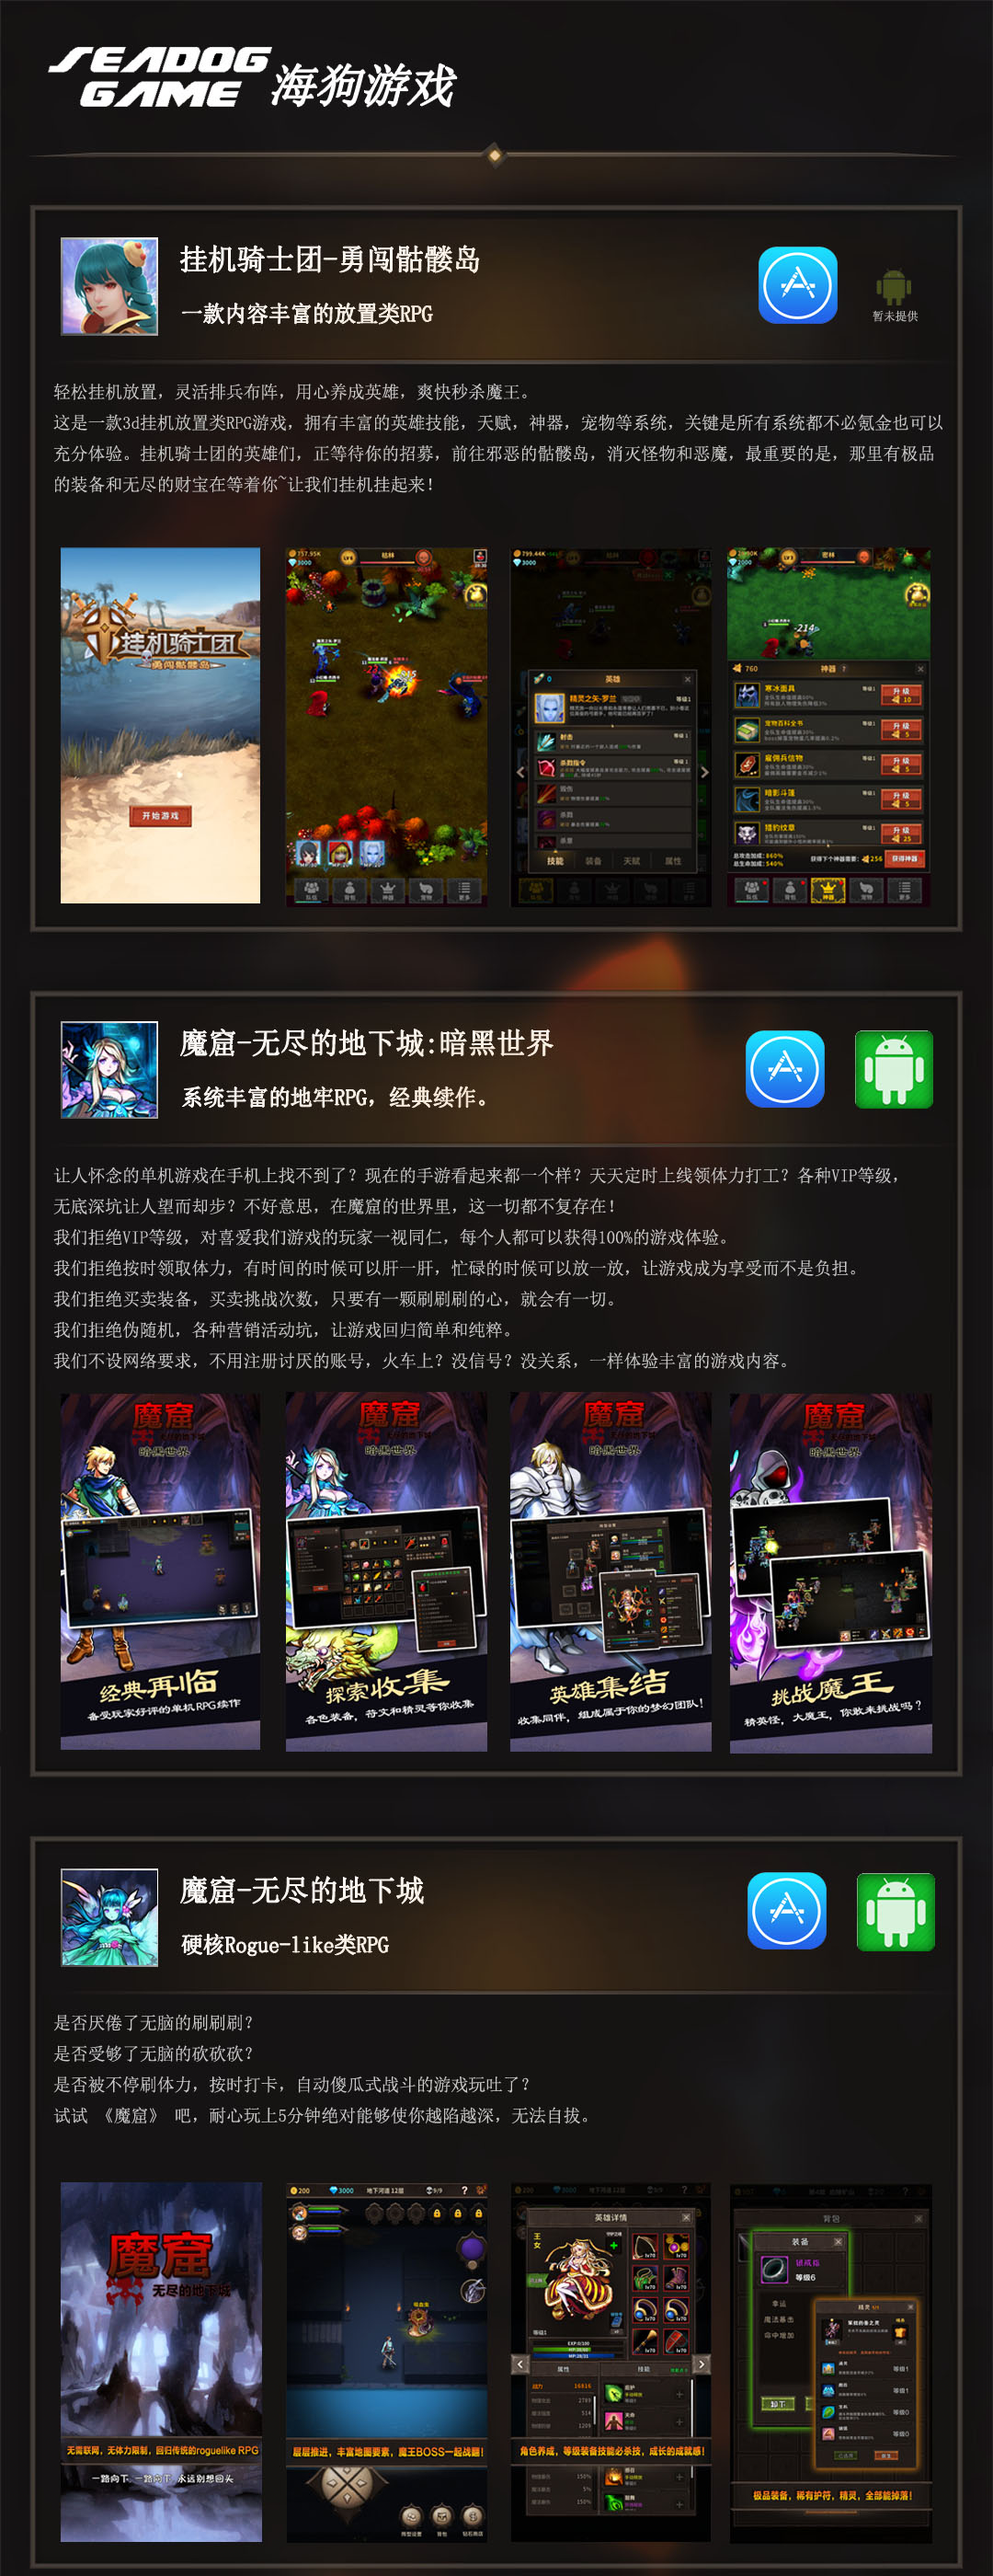
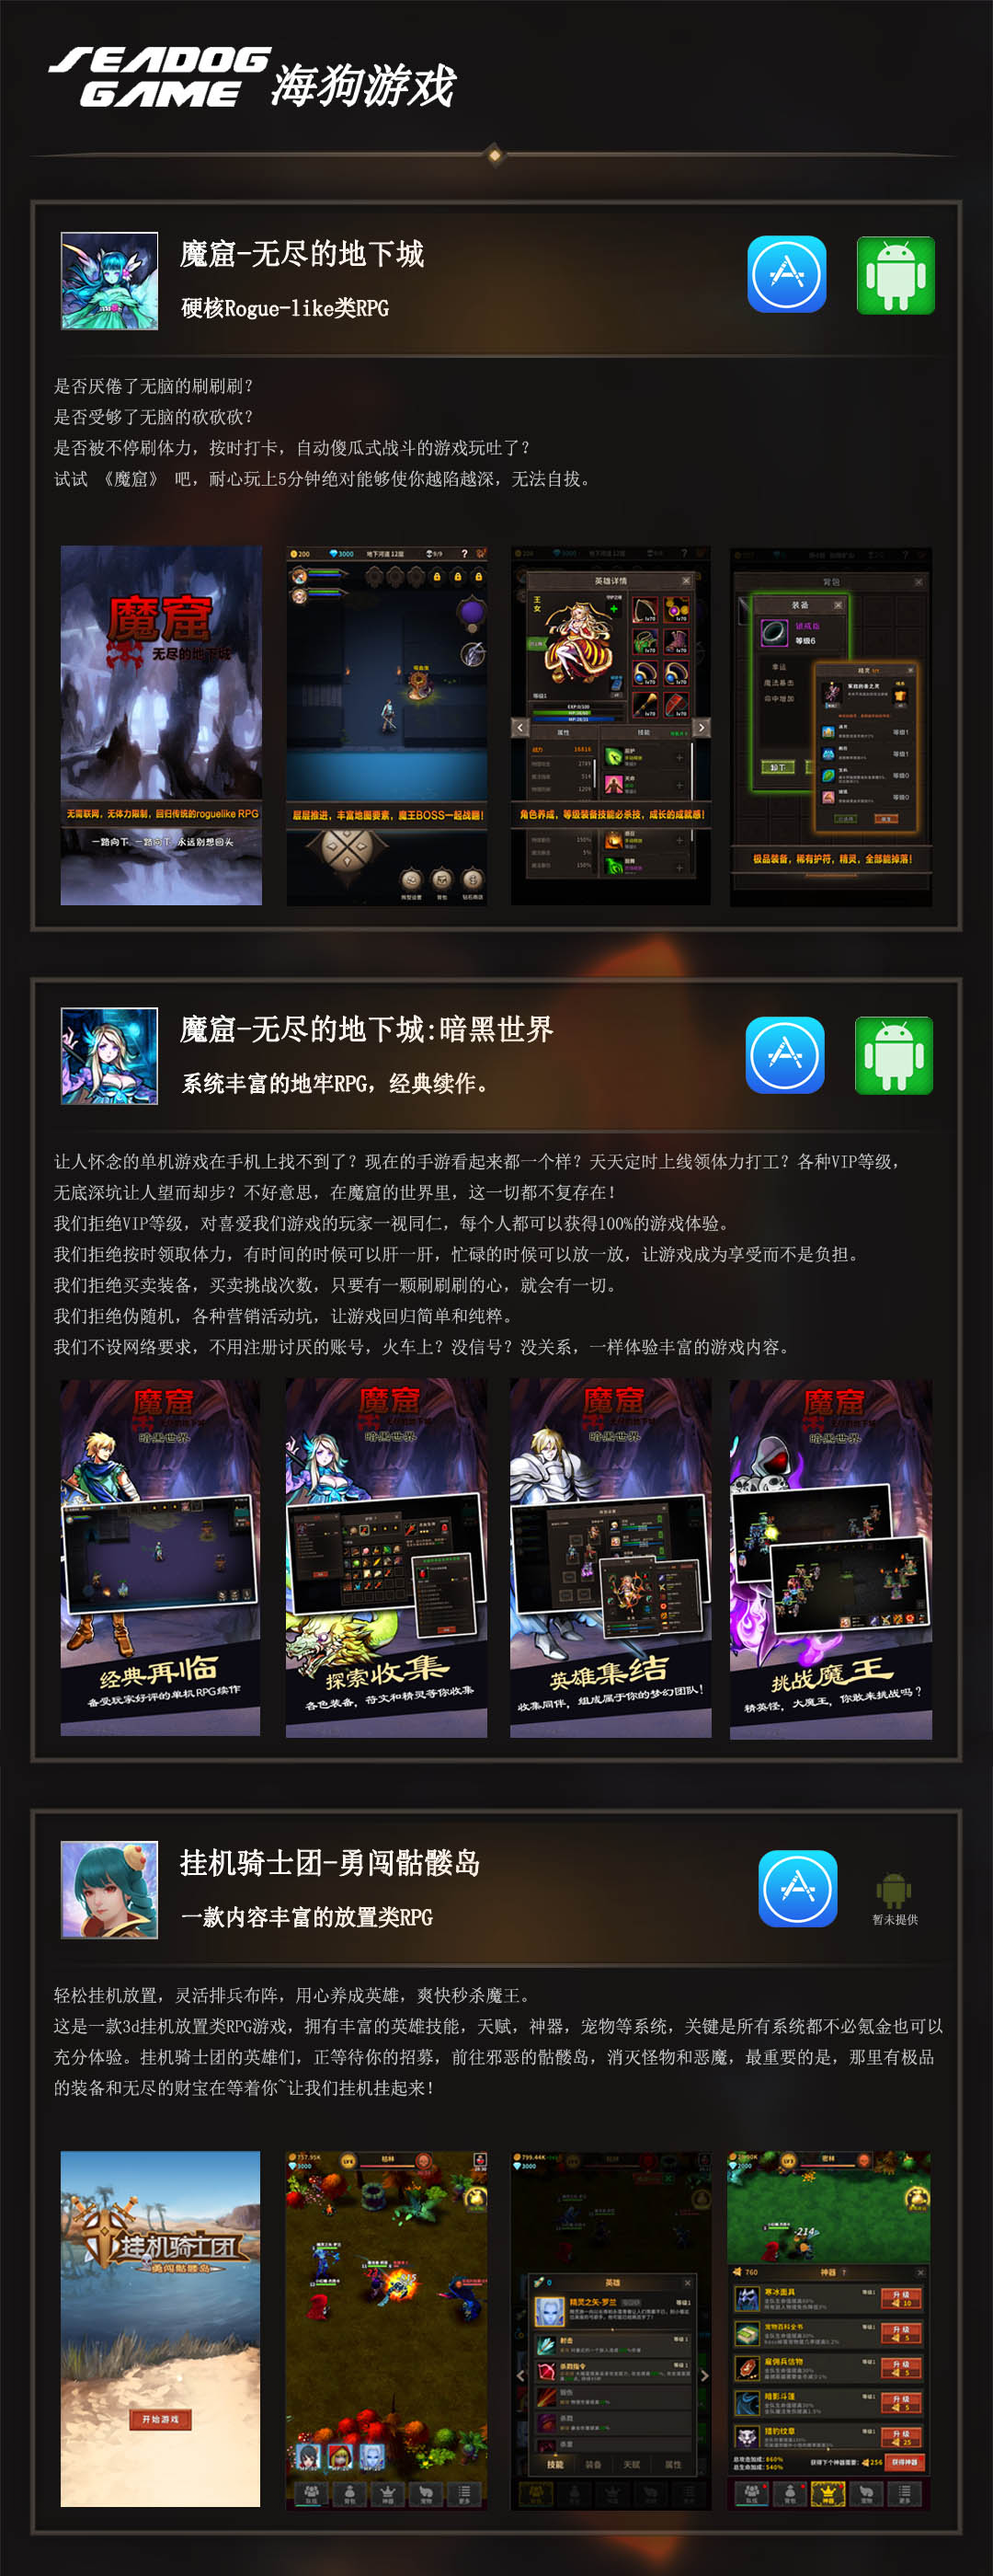
shunxu tiaozheng

diff --git a/index.html b/index.html
@@ -8,11 +8,12 @@
 <div align="center">
 <img src="images/site.jpg" width="1080" height="2800" alt="" z-index="100" usemap="#Map">
 <map id="Map" name="Map"><!--通过id 将两者关联起来 id是唯一的 js要用的，但是name可以相同-->
-        <area href="https://itunes.apple.com/cn/app/id1280862501?mt=8" target="_blank" shape="rect" coords="818, 261, 918, 358"/><!--【左上角距离左边num1，距离上边num2】，【右下角距离左边num3，距离上边num4】-->
-        <area href="https://itunes.apple.com/cn/app/id1171627280?mt=8" target="_blank" shape="rect" coords="805, 1116, 909, 1206"/>
-        <area href="http://www.arbaike.com/apk/morgul2_105.apk" target="_blank" shape="rect" coords="926, 1116, 1021, 1206"/><!--https://www.taptap.com/app/26387-->
-        <area href="https://itunes.apple.com/cn/app/id1065405497?mt=8" target="_blank" shape="rect" coords="805, 2028, 909, 2126"/>
-        <area href="http://www.arbaike.com/apk/morgul1_106.apk" target="_blank" shape="rect" coords="926, 2035, 1021, 2126"/><!--https://www.taptap.com/app/15386-->
+        <area href="https://itunes.apple.com/cn/app/id1065405497?mt=8" target="_blank" shape="rect" coords="800, 250, 910, 360"/><!--【左上角距离左边num1，距离上边num2】，【右下角距离左边num3，距离上边num4】-->
+        <area href="http://www.arbaike.com/apk/morgul1_106.apk" target="_blank" shape="rect" coords="915, 250, 1030, 360"/>
+        <area href="https://itunes.apple.com/cn/app/id1171627280?mt=8" target="_blank" shape="rect" coords="800, 1090, 910, 1206"/>
+        <area href="http://www.arbaike.com/apk/morgul2_105.apk" target="_blank" shape="rect" coords="915, 1090, 1030, 1206"/><!--https://www.taptap.com/app/26387-->
+        <area href="https://itunes.apple.com/cn/app/id1280862501?mt=8" target="_blank" shape="rect" coords="800, 1990, 930, 2100"/>
+        <!--area href="http://www.arbaike.com/apk/morgul1_106.apk" target="_blank" shape="rect" coords="926, 2035, 1021, 2126"/--><!--https://www.taptap.com/app/15386-->
 </map>
 </div>
 <!-- End Save for Web Slices -->
